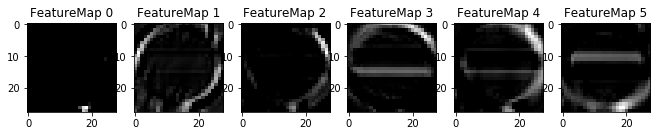
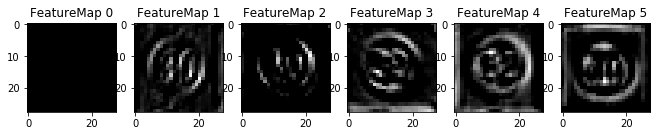
Visualize activations

Changed region(s): [[0.1818, 0.1471, 1.0, 0.8235], [0.1818, 0.5882, 0.2121, 0.6471], [0.1212, 0.7647, 0.1515, 0.8235]]

diff --git a/README.md b/README.md
@@ -181,6 +181,8 @@ Even for the unknown classes the top predicted values are around 0.9.
 
 As a final step, I visualize the activations from the first convolutional layer,
 before the max pooling. The end result is presented in the cell #21 of the
-report: 
+notebook. This visualization shows that the network learned to recognize the
+overall shape of the traffic sign, as well as the details of the drawing inside
+the frame. 
 
 ![layer-1-vis]
